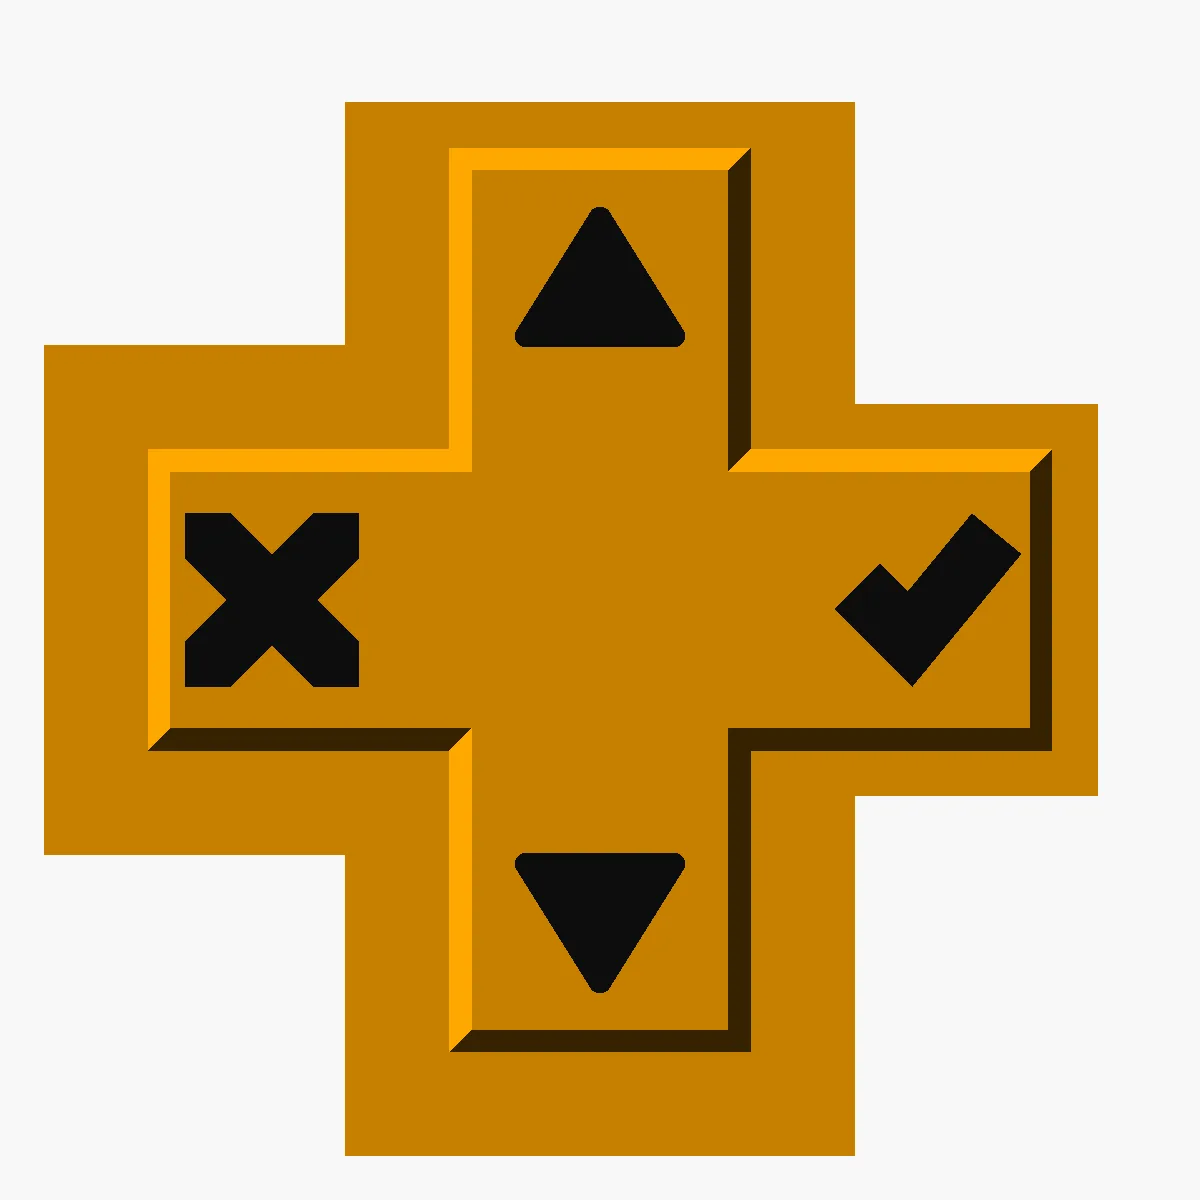
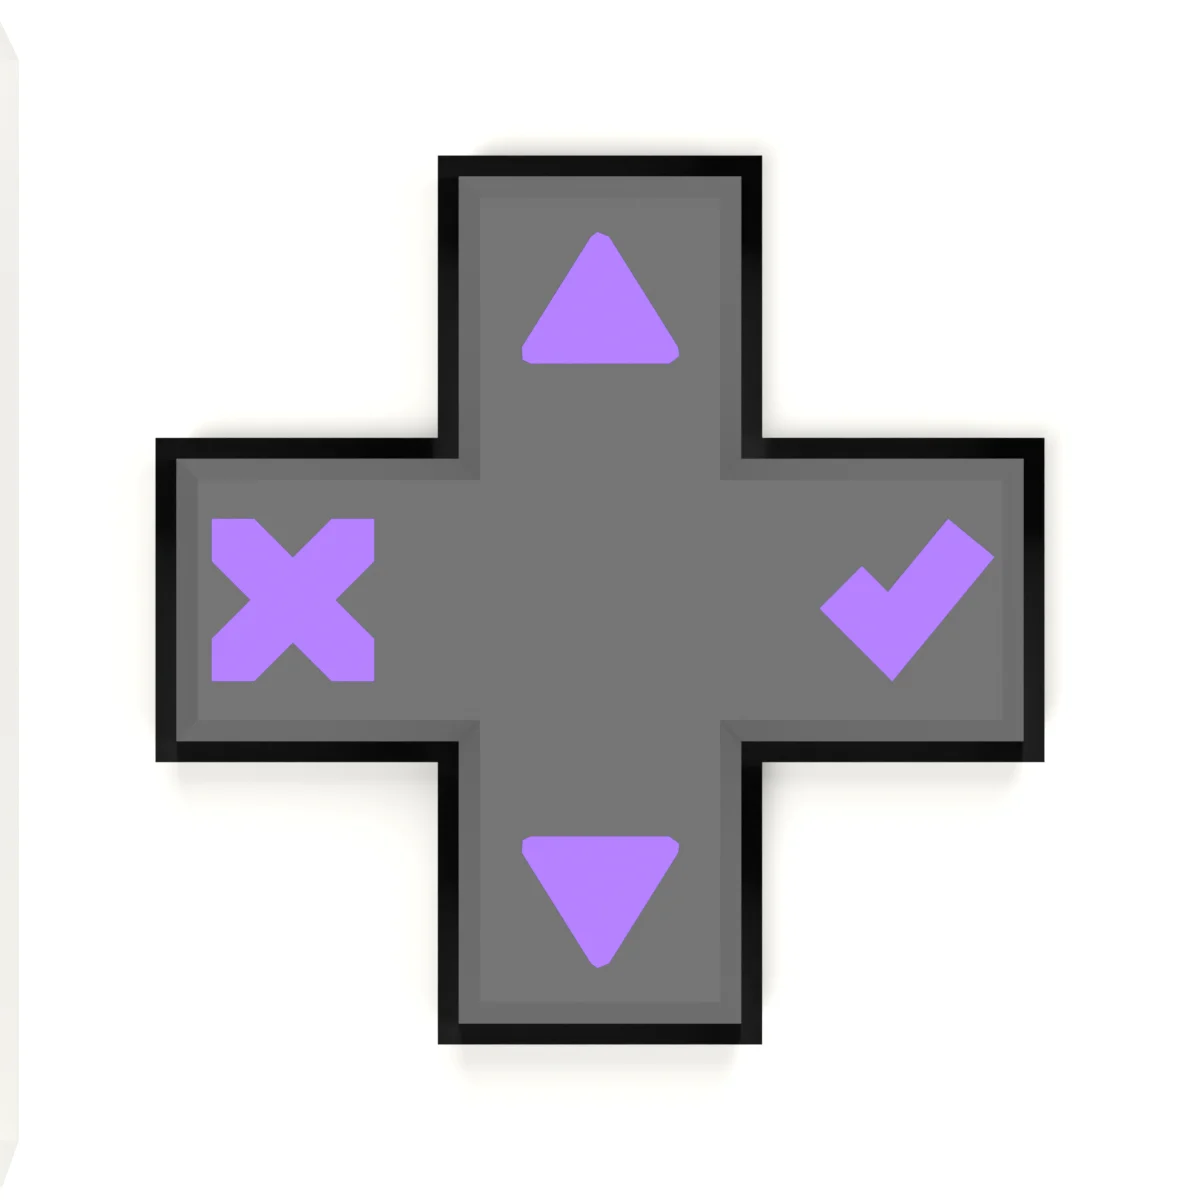
feat(site): the jank mini 3's pictures are Blender renders: white printed case, labels in the site's purple, the beat screen lit
photo.scad exports box2.scad's pieces, photo.py renders them (Cycles) with the white PLA case, the inlaid labels and cap symbols in #A06CF0 (ui/box3.css), the cap in the drawing's grey and page/img/screen-beat.png on the LCD-2's active area; make_photo.sh writes the About hero (now jank-mini-3.webp, 90 KB instead of a 784 KB PNG) and the Build page's assembly, exploded, top and cap views.

Claude-Session: https://claude.ai/code/session_01RD2QM8TGvGBwzGuMHvgogP

diff --git a/page/index.html b/page/index.html
@@ -308,7 +308,7 @@ th { color: var(--dim); font-weight: 600; font-size: 13px; }
     <h2>Ableton Link with no router</h2>
     <p>Jank brings computers, MIDI gear and modular gear into one Link session. The units send open Wi-Fi frames straight to each other on the group's channel: no router, no association, no password, no host. Units set to the same GROUP (1..9) hear each other.</p>
     <p>It is the group mode of <a href="https://github.com/w0ts/optimist">Optimist</a>, the open firmware for the FM-1 synth. FM-1s running Optimist do this by themselves; the Jank device speaks the same air format, so whatever is plugged into it joins the group too. The air format: <a href="https://github.com/w0ts/jank/blob/main/docs/air.md">docs/air.md</a>.</p>
-    <img src="img/jank-mini-3.png" alt="The jank mini 3: a printed box with a colour screen, a D-pad and the MIDI, clock and USB sockets" width="1600" height="1000">
+    <img src="img/jank-mini-3.webp" alt="The jank mini 3: a white printed box with purple labels, its colour screen following a beat, a D-pad and the MIDI, clock and USB sockets" width="1600" height="1000">
   </section>
 
   <section>

diff --git a/page/src/index.html b/page/src/index.html
@@ -34,7 +34,7 @@ th { color: var(--dim); font-weight: 600; font-size: 13px; }
     <h2>Ableton Link with no router</h2>
     <p>Jank brings computers, MIDI gear and modular gear into one Link session. The units send open Wi-Fi frames straight to each other on the group's channel: no router, no association, no password, no host. Units set to the same GROUP (1..9) hear each other.</p>
     <p>It is the group mode of <a href="https://github.com/w0ts/optimist">Optimist</a>, the open firmware for the FM-1 synth. FM-1s running Optimist do this by themselves; the Jank device speaks the same air format, so whatever is plugged into it joins the group too. The air format: <a href="https://github.com/w0ts/jank/blob/main/docs/air.md">docs/air.md</a>.</p>
-    <img src="img/jank-mini-3.png" alt="The jank mini 3: a printed box with a colour screen, a D-pad and the MIDI, clock and USB sockets" width="1600" height="1000">
+    <img src="img/jank-mini-3.webp" alt="The jank mini 3: a white printed box with purple labels, its colour screen following a beat, a D-pad and the MIDI, clock and USB sockets" width="1600" height="1000">
   </section>
 
   <section>

diff --git a/hardware/jank-mini-3/case/photo.py b/hardware/jank-mini-3/case/photo.py
@@ -1,0 +1,207 @@
+"""The site's pictures of the jank mini 3, rendered in Blender (Cycles) from photo.scad's STL pieces.
+
+The case is white PLA, its inlaid labels and the cap's symbols are the site's purple (ui/box3.css #A06CF0, the device
+drawn on the site), the cap is the drawing's grey, and the screen shows a real frame of the beat page
+(page/img/screen-beat.png) on the LCD-2's active area.
+
+blender -b -P photo.py -- <stl dir> <screen png> <out dir> [view ...]
+views: hero (About page), assembly, exploded, top, cap (Build page). make_photo.sh runs it.
+"""
+import os
+import sys
+from pathlib import Path
+
+import bpy
+from mathutils import Vector
+
+MM = 0.001
+PURPLE = "#A06CF0"           # ui/box3.css: the labels and symbols of the device drawn on the site
+CAP_GREY = "#5f5f5f"         # ui/box3.css .cap
+CASE_WHITE = "#f2f1ec"       # white PLA, a touch warm so it is not read as a blank
+# box2.scad: the LCD-2's active area (AA) and the screen's front (lcd_front); checked against lcd2.stl in screen_rect()
+AA_SIZE = (40.8, 30.6)
+AA_FAR = 2.3                 # from the backlight's right edge
+EXPLODE = 40.0               # box2.scad assembly(40): top +e, cap +1.5e, bottom -0.8e
+
+# view: (width, height, camera kind, eye mm, target mm, lens mm or ortho scale mm, exploded)
+VIEWS = {
+    "hero":     (1600, 1000, "persp", (-75, -200, 150), (48, -41, -6), 40, False),
+    "assembly": (1600, 1200, "persp", (-75, -200, 150), (48, -41, -6), 38, False),
+    "exploded": (1600, 1200, "persp", (-170, -370, 215), (48, -41, 6), 50, True),
+    "top":      (1600, 1300, "ortho", (48, -41, 300), (48, -41, 0), 112, False),
+    "cap":      (1200, 1200, "ortho", (64.75, -41, 300), (64.75, -41, 0), 34, False),
+}
+
+
+def srgb(hex_):
+    h = hex_.lstrip("#")
+    c = [int(h[i:i + 2], 16) / 255 for i in (0, 2, 4)]
+    lin = [x / 12.92 if x <= 0.04045 else ((x + 0.055) / 1.055) ** 2.4 for x in c]
+    return (*lin, 1.0)
+
+
+def material(name, color, rough=0.5, metal=0.0):
+    m = bpy.data.materials.new(name)
+    m.use_nodes = True
+    p = m.node_tree.nodes["Principled BSDF"]
+    p.inputs["Base Color"].default_value = srgb(color) if isinstance(color, str) else color
+    p.inputs["Roughness"].default_value = rough
+    p.inputs["Metallic"].default_value = metal
+    return m
+
+
+def screen_material(png):
+    m = bpy.data.materials.new("screen")
+    m.use_nodes = True
+    nt = m.node_tree
+    nt.nodes.clear()
+    tex = nt.nodes.new("ShaderNodeTexImage")
+    tex.image = bpy.data.images.load(str(png))
+    tex.interpolation = "Closest"           # the LCD's pixels stay sharp
+    emit = nt.nodes.new("ShaderNodeEmission")
+    emit.inputs["Strength"].default_value = 3.4
+    glass = nt.nodes.new("ShaderNodeBsdfPrincipled")
+    glass.inputs["Base Color"].default_value = (0, 0, 0, 1)
+    glass.inputs["Roughness"].default_value = 0.25
+    glass.inputs["Specular IOR Level"].default_value = 0.12
+    add = nt.nodes.new("ShaderNodeAddShader")
+    out = nt.nodes.new("ShaderNodeOutputMaterial")
+    nt.links.new(tex.outputs["Color"], emit.inputs["Color"])
+    nt.links.new(emit.outputs[0], add.inputs[0])
+    nt.links.new(glass.outputs[0], add.inputs[1])
+    nt.links.new(add.outputs[0], out.inputs["Surface"])
+    return m
+
+
+def import_stl(path, mat, dz=0.0):
+    bpy.ops.wm.stl_import(filepath=str(path), global_scale=MM)
+    ob = bpy.context.selected_objects[0]
+    ob.data.materials.append(mat)
+    ob.location.z += dz * MM
+    return ob
+
+
+def screen_rect(lcd2):
+    """The active area from the LCD-2's backlight block (the only box of lcd2.stl that reaches lcd_front)."""
+    pts = world_points(lcd2)           # (the importer puts the mm -> m scale on the object, not the vertices)
+    ztop = max(p.z for p in pts)
+    top = [p for p in pts if abs(p.z - ztop) < 1e-7]
+    x1 = max(p.x for p in top) / MM
+    ymid = (min(p.y for p in top) + max(p.y for p in top)) / 2 / MM
+    x0 = x1 - AA_FAR - AA_SIZE[0]
+    if x0 < min(p.x for p in top) / MM:
+        raise SystemExit("photo.py: the active area falls outside the LCD-2's backlight: box2.scad changed?")
+    return x0, x1, ymid, ztop / MM
+
+
+def world_points(ob):
+    return [ob.matrix_world @ v.co for v in ob.data.vertices]
+
+
+def add_screen(lcd2, png, dz):
+    x0, x1, ymid, z = screen_rect(lcd2)
+    bpy.ops.mesh.primitive_plane_add(size=1)
+    sc = bpy.context.active_object
+    sc.scale = (AA_SIZE[0] * MM, AA_SIZE[1] * MM, 1)
+    sc.location = ((x0 + x1) / 2 * MM, ymid * MM, (z + 0.02 + dz) * MM)
+    sc.data.materials.append(screen_material(png))
+    return sc
+
+
+def build_scene(stl, png, exploded):
+    bpy.ops.wm.read_factory_settings(use_empty=True)
+    e = EXPLODE if exploded else 0.0
+    white = material("case", CASE_WHITE, rough=0.6)
+    purple = material("labels", PURPLE, rough=0.55)
+    cap = material("cap", CAP_GREY, rough=0.55)
+    import_stl(stl / "top.stl", white, e)
+    import_stl(stl / "labels.stl", purple, e + 0.01)       # (flush with the face: lifted a hair so it wins)
+    import_stl(stl / "cap.stl", cap, 1.5 * e)
+    import_stl(stl / "cap_symbols.stl", purple, 1.5 * e + 0.01)
+    import_stl(stl / "bottom.stl", white, -0.8 * e)
+    import_stl(stl / "switch.stl", material("switch", "#222222", 0.5), -0.8 * e)
+    import_stl(stl / "pcb.stl", material("pcb", "#1f3b2a", 0.45))
+    import_stl(stl / "parts_top.stl", material("metal", "#b8bcc2", 0.3, 1.0))
+    import_stl(stl / "parts_sw.stl", material("switches", "#2a2a2a", 0.5))
+    import_stl(stl / "parts_bottom.stl", material("parts", "#2b2d30", 0.45))
+    lcd2 = import_stl(stl / "lcd2.stl", material("lcd", "#0b0c0d", 0.15))
+    bpy.context.view_layer.update()
+    zmin = min(p.z for ob in bpy.data.objects if ob.type == "MESH" for p in world_points(ob))
+    add_screen(lcd2, png, 0.0)
+    floor(zmin)
+    lights()
+
+
+def floor(z):
+    bpy.ops.mesh.primitive_plane_add(size=2, location=(0.05, -0.04, z - 0.0001))
+    fl = bpy.context.active_object
+    fl.is_shadow_catcher = True
+
+
+def lights():
+    world = bpy.data.worlds.new("w")
+    bpy.context.scene.world = world
+    world.use_nodes = True
+    world.node_tree.nodes["Background"].inputs["Color"].default_value = (1, 1, 1, 1)
+    world.node_tree.nodes["Background"].inputs["Strength"].default_value = 0.25
+    for name, loc, energy, size in (("key", (-0.15, -0.25, 0.35), 6, 0.25),
+                                    ("fill", (0.30, -0.10, 0.20), 2, 0.35),
+                                    ("rim", (0.10, 0.25, 0.25), 3, 0.2)):
+        bpy.ops.object.light_add(type="AREA", location=loc)
+        li = bpy.context.active_object
+        li.name = name
+        li.data.energy = energy
+        li.data.size = size
+        point_at(li, (0.048, -0.041, 0.0))
+
+
+def point_at(ob, target):
+    d = Vector(target) - ob.location
+    ob.rotation_euler = d.to_track_quat("-Z", "Y").to_euler()
+
+
+def camera(kind, eye, target, lens):
+    bpy.ops.object.camera_add(location=Vector(eye) * MM)
+    cam = bpy.context.active_object
+    if kind == "ortho":
+        cam.data.type = "ORTHO"
+        cam.data.ortho_scale = lens * MM
+        cam.rotation_euler = (0, 0, 0)
+    else:
+        cam.data.lens = lens
+        point_at(cam, Vector(target) * MM)
+    cam.data.clip_start = 0.001
+    cam.data.clip_end = 10
+    bpy.context.scene.camera = cam
+
+
+def render(out, w, h, threads):
+    sc = bpy.context.scene
+    sc.render.engine = "CYCLES"
+    sc.cycles.samples = int(os.environ.get("SAMPLES", "128"))
+    sc.cycles.use_denoising = True
+    sc.render.threads_mode = "FIXED"
+    sc.render.threads = threads
+    sc.render.resolution_x, sc.render.resolution_y = w, h
+    sc.render.film_transparent = True
+    sc.view_settings.view_transform = "Standard"
+    sc.view_settings.exposure = -1.8
+    sc.render.image_settings.file_format = "PNG"
+    sc.render.image_settings.color_mode = "RGBA"
+    sc.render.filepath = str(out)
+    bpy.ops.render.render(write_still=True)
+
+
+def main():
+    args = sys.argv[sys.argv.index("--") + 1:]
+    stl, png, out = Path(args[0]), Path(args[1]), Path(args[2])
+    views = args[3:] or list(VIEWS)
+    threads = int(os.environ.get("THREADS", "6"))
+    for v in views:
+        w, h, kind, eye, target, lens, exploded = VIEWS[v]
+        build_scene(stl, png, exploded)
+        camera(kind, eye, target, lens)
+        render(out / f"{v}.png", w, h, threads)
+
+
+main()
